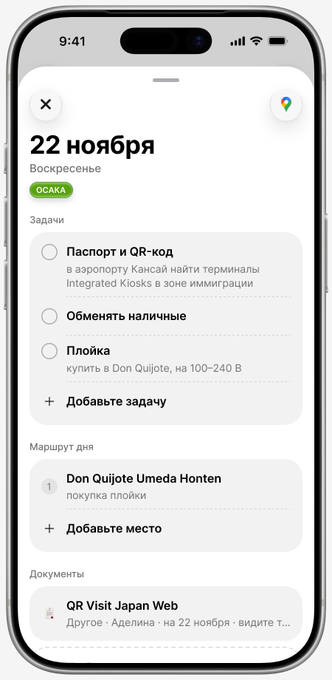
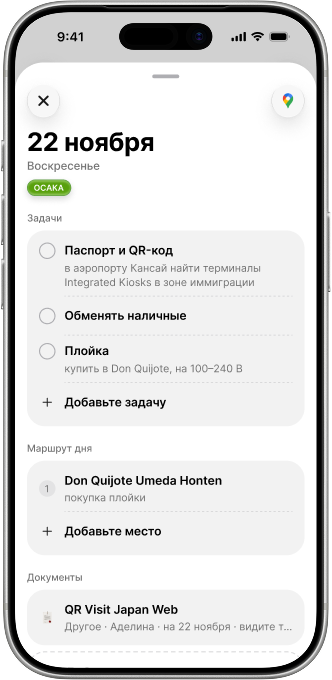
EasyGoing: новые макеты на обложке и в превью
Claude-Session: https://claude.ai/code/session_01StpxptfvpjwGYmo7tgMf6k

diff --git a/payment-split.html b/payment-split.html
@@ -73,12 +73,12 @@
 <link rel="preload" as="font" type="font/woff2" crossorigin href="vendor/fonts/UcC73FwrK3iLTeHuS_nVMrMxCp50SjIa0ZL7W0Q5n-wU.woff2">
 <link rel="preload" as="font" type="font/woff2" crossorigin href="vendor/fonts/UcC73FwrK3iLTeHuS_nVMrMxCp50SjIa2JL7W0Q5n-wU.woff2">
 <link rel="stylesheet" href="vendor/inter.css">
-<link rel="stylesheet" href="base.css?v=202611180931">
-<link rel="stylesheet" href="article.css?v=202611180931">
+<link rel="stylesheet" href="base.css?v=202611192028">
+<link rel="stylesheet" href="article.css?v=202611192028">
 <!-- The SVG-only build: these files carry no expressions, images or text layers. -->
 <script src="vendor/lottie_light.min.js" defer></script>
-<script src="shared.js?v=202611180931" defer></script>
-<script src="page-payment-split.js?v=202611180931" defer></script>
+<script src="shared.js?v=202611192028" defer></script>
+<script src="page-payment-split.js?v=202611192028" defer></script>
 
 <!-- Vercel Web Analytics. Served from this domain, not from anyone else's:
      the site still makes no third-party requests. -->

diff --git a/activities.html b/activities.html
@@ -72,12 +72,12 @@
 <link rel="preload" as="font" type="font/woff2" crossorigin href="vendor/fonts/UcC73FwrK3iLTeHuS_nVMrMxCp50SjIa0ZL7W0Q5n-wU.woff2">
 <link rel="preload" as="font" type="font/woff2" crossorigin href="vendor/fonts/UcC73FwrK3iLTeHuS_nVMrMxCp50SjIa2JL7W0Q5n-wU.woff2">
 <link rel="stylesheet" href="vendor/inter.css">
-<link rel="stylesheet" href="base.css?v=202611180931">
-<link rel="stylesheet" href="article.css?v=202611180931">
+<link rel="stylesheet" href="base.css?v=202611192028">
+<link rel="stylesheet" href="article.css?v=202611192028">
 <!-- The SVG-only build: these files carry no expressions, images or text layers. -->
 <script src="vendor/lottie_light.min.js" defer></script>
-<script src="shared.js?v=202611180931" defer></script>
-<script src="page-activities.js?v=202611180931" defer></script>
+<script src="shared.js?v=202611192028" defer></script>
+<script src="page-activities.js?v=202611192028" defer></script>
 
 <!-- Vercel Web Analytics. Served from this domain, not from anyone else's:
      the site still makes no third-party requests. -->

diff --git a/desk-setup.html b/desk-setup.html
@@ -73,12 +73,12 @@
 <link rel="preload" as="font" type="font/woff2" crossorigin href="vendor/fonts/UcC73FwrK3iLTeHuS_nVMrMxCp50SjIa0ZL7W0Q5n-wU.woff2">
 <link rel="preload" as="font" type="font/woff2" crossorigin href="vendor/fonts/UcC73FwrK3iLTeHuS_nVMrMxCp50SjIa2JL7W0Q5n-wU.woff2">
 <link rel="stylesheet" href="vendor/inter.css">
-<link rel="stylesheet" href="base.css?v=202611180931">
-<link rel="stylesheet" href="article.css?v=202611180931">
+<link rel="stylesheet" href="base.css?v=202611192028">
+<link rel="stylesheet" href="article.css?v=202611192028">
 <!-- The SVG-only build: these files carry no expressions, images or text layers. -->
 <script src="vendor/lottie_light.min.js" defer></script>
-<script src="shared.js?v=202611180931" defer></script>
-<script src="page-desk-setup.js?v=202611180931" defer></script>
+<script src="shared.js?v=202611192028" defer></script>
+<script src="page-desk-setup.js?v=202611192028" defer></script>
 
 <!-- Vercel Web Analytics. Served from this domain, not from anyone else's:
      the site still makes no third-party requests. -->

diff --git a/animation-challenge.html b/animation-challenge.html
@@ -73,12 +73,12 @@
 <link rel="preload" as="font" type="font/woff2" crossorigin href="vendor/fonts/UcC73FwrK3iLTeHuS_nVMrMxCp50SjIa0ZL7W0Q5n-wU.woff2">
 <link rel="preload" as="font" type="font/woff2" crossorigin href="vendor/fonts/UcC73FwrK3iLTeHuS_nVMrMxCp50SjIa2JL7W0Q5n-wU.woff2">
 <link rel="stylesheet" href="vendor/inter.css">
-<link rel="stylesheet" href="base.css?v=202611180931">
-<link rel="stylesheet" href="article.css?v=202611180931">
+<link rel="stylesheet" href="base.css?v=202611192028">
+<link rel="stylesheet" href="article.css?v=202611192028">
 <!-- The SVG-only build: these files carry no expressions, images or text layers. -->
 <script src="vendor/lottie_light.min.js" defer></script>
-<script src="shared.js?v=202611180931" defer></script>
-<script src="page-animation.js?v=202611180931" defer></script>
+<script src="shared.js?v=202611192028" defer></script>
+<script src="page-animation.js?v=202611192028" defer></script>
 
 <!-- Vercel Web Analytics. Served from this domain, not from anyone else's:
      the site still makes no third-party requests. -->

diff --git a/easygoing.html b/easygoing.html
@@ -73,12 +73,12 @@
 <link rel="preload" as="font" type="font/woff2" crossorigin href="vendor/fonts/UcC73FwrK3iLTeHuS_nVMrMxCp50SjIa0ZL7W0Q5n-wU.woff2">
 <link rel="preload" as="font" type="font/woff2" crossorigin href="vendor/fonts/UcC73FwrK3iLTeHuS_nVMrMxCp50SjIa2JL7W0Q5n-wU.woff2">
 <link rel="stylesheet" href="vendor/inter.css">
-<link rel="stylesheet" href="base.css?v=202611180931">
-<link rel="stylesheet" href="article.css?v=202611180931">
+<link rel="stylesheet" href="base.css?v=202611192028">
+<link rel="stylesheet" href="article.css?v=202611192028">
 <!-- The SVG-only build: these files carry no expressions, images or text layers. -->
 <script src="vendor/lottie_light.min.js" defer></script>
-<script src="shared.js?v=202611180931" defer></script>
-<script src="page-easygoing.js?v=202611180931" defer></script>
+<script src="shared.js?v=202611192028" defer></script>
+<script src="page-easygoing.js?v=202611192028" defer></script>
 
 <!-- Vercel Web Analytics. Served from this domain, not from anyone else's:
      the site still makes no third-party requests. -->

diff --git a/airtrip.html b/airtrip.html
@@ -73,12 +73,12 @@
 <link rel="preload" as="font" type="font/woff2" crossorigin href="vendor/fonts/UcC73FwrK3iLTeHuS_nVMrMxCp50SjIa0ZL7W0Q5n-wU.woff2">
 <link rel="preload" as="font" type="font/woff2" crossorigin href="vendor/fonts/UcC73FwrK3iLTeHuS_nVMrMxCp50SjIa2JL7W0Q5n-wU.woff2">
 <link rel="stylesheet" href="vendor/inter.css">
-<link rel="stylesheet" href="base.css?v=202611180931">
-<link rel="stylesheet" href="article.css?v=202611180931">
+<link rel="stylesheet" href="base.css?v=202611192028">
+<link rel="stylesheet" href="article.css?v=202611192028">
 <!-- The SVG-only build: these files carry no expressions, images or text layers. -->
 <script src="vendor/lottie_light.min.js" defer></script>
-<script src="shared.js?v=202611180931" defer></script>
-<script src="page-airtrip.js?v=202611180931" defer></script>
+<script src="shared.js?v=202611192028" defer></script>
+<script src="page-airtrip.js?v=202611192028" defer></script>
 
 <!-- Vercel Web Analytics. Served from this domain, not from anyone else's:
      the site still makes no third-party requests. -->

diff --git a/mujo.html b/mujo.html
@@ -73,12 +73,12 @@
 <link rel="preload" as="font" type="font/woff2" crossorigin href="vendor/fonts/UcC73FwrK3iLTeHuS_nVMrMxCp50SjIa0ZL7W0Q5n-wU.woff2">
 <link rel="preload" as="font" type="font/woff2" crossorigin href="vendor/fonts/UcC73FwrK3iLTeHuS_nVMrMxCp50SjIa2JL7W0Q5n-wU.woff2">
 <link rel="stylesheet" href="vendor/inter.css">
-<link rel="stylesheet" href="base.css?v=202611180931">
-<link rel="stylesheet" href="article.css?v=202611180931">
+<link rel="stylesheet" href="base.css?v=202611192028">
+<link rel="stylesheet" href="article.css?v=202611192028">
 <!-- The SVG-only build: these files carry no expressions, images or text layers. -->
 <script src="vendor/lottie_light.min.js" defer></script>
-<script src="shared.js?v=202611180931" defer></script>
-<script src="page-mujo.js?v=202611180931" defer></script>
+<script src="shared.js?v=202611192028" defer></script>
+<script src="page-mujo.js?v=202611192028" defer></script>
 
 <!-- Vercel Web Analytics. Served from this domain, not from anyone else's:
      the site still makes no third-party requests. -->

diff --git a/wb.html b/wb.html
@@ -73,12 +73,12 @@
 <link rel="preload" as="font" type="font/woff2" crossorigin href="vendor/fonts/UcC73FwrK3iLTeHuS_nVMrMxCp50SjIa0ZL7W0Q5n-wU.woff2">
 <link rel="preload" as="font" type="font/woff2" crossorigin href="vendor/fonts/UcC73FwrK3iLTeHuS_nVMrMxCp50SjIa2JL7W0Q5n-wU.woff2">
 <link rel="stylesheet" href="vendor/inter.css">
-<link rel="stylesheet" href="base.css?v=202611180931">
-<link rel="stylesheet" href="article.css?v=202611180931">
+<link rel="stylesheet" href="base.css?v=202611192028">
+<link rel="stylesheet" href="article.css?v=202611192028">
 <!-- The SVG-only build: these files carry no expressions, images or text layers. -->
 <script src="vendor/lottie_light.min.js" defer></script>
-<script src="shared.js?v=202611180931" defer></script>
-<script src="page-wb.js?v=202611180931" defer></script>
+<script src="shared.js?v=202611192028" defer></script>
+<script src="page-wb.js?v=202611192028" defer></script>
 
 <!-- Vercel Web Analytics. Served from this domain, not from anyone else's:
      the site still makes no third-party requests. -->

diff --git a/index.html b/index.html
@@ -72,12 +72,12 @@
 <link rel="preload" as="font" type="font/woff2" crossorigin href="vendor/fonts/UcC73FwrK3iLTeHuS_nVMrMxCp50SjIa0ZL7W0Q5n-wU.woff2">
 <link rel="preload" as="font" type="font/woff2" crossorigin href="vendor/fonts/UcC73FwrK3iLTeHuS_nVMrMxCp50SjIa2JL7W0Q5n-wU.woff2">
 <link rel="stylesheet" href="vendor/inter.css">
-<link rel="stylesheet" href="base.css?v=202611180931">
-<link rel="stylesheet" href="home.css?v=202611180931">
+<link rel="stylesheet" href="base.css?v=202611192028">
+<link rel="stylesheet" href="home.css?v=202611192028">
 <!-- The SVG-only build: these files carry no expressions, images or text layers. -->
 <script src="vendor/lottie_light.min.js" defer></script>
-<script src="shared.js?v=202611180931" defer></script>
-<script src="home.js?v=202611180931" defer></script>
+<script src="shared.js?v=202611192028" defer></script>
+<script src="home.js?v=202611192028" defer></script>
 
 <!-- Vercel Web Analytics. Served from this domain, not from anyone else's:
      the site still makes no third-party requests. -->

diff --git a/404.html b/404.html
@@ -37,8 +37,8 @@
 <link rel="preload" as="font" type="font/woff2" crossorigin href="/vendor/fonts/UcC73FwrK3iLTeHuS_nVMrMxCp50SjIa1ZL7W0Q5nw.woff2">
 <link rel="preload" as="font" type="font/woff2" crossorigin href="/vendor/fonts/UcC73FwrK3iLTeHuS_nVMrMxCp50SjIa0ZL7W0Q5n-wU.woff2">
 <link rel="preload" as="font" type="font/woff2" crossorigin href="/vendor/fonts/UcC73FwrK3iLTeHuS_nVMrMxCp50SjIa2JL7W0Q5n-wU.woff2">
-<link rel="stylesheet" href="/vendor/inter.css?v=202611180931">
-<link rel="stylesheet" href="/base.css?v=202611180931">
+<link rel="stylesheet" href="/vendor/inter.css?v=202611192028">
+<link rel="stylesheet" href="/base.css?v=202611192028">
 <style>
   .notfound {
     min-height: 100vh;

diff --git a/shared.js b/shared.js
@@ -9,7 +9,7 @@
 // Pictures the scripts build get this stamp on the end of their address.
 // A file keeps its name when its contents change, and without the stamp a
 // browser goes on showing the copy it already has.
-var ASSET_V = '202611180931';
+var ASSET_V = '202611192028';
 
 window.PF = (function () {
   'use strict';
